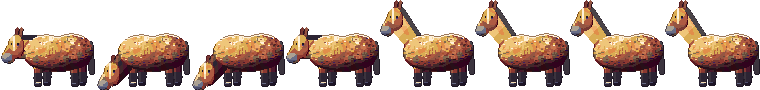
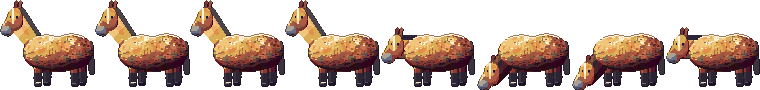
Start the horse's still with its head up
Its idle loop starts on the still frame, then dips to graze.

Claude-Session: https://claude.ai/code/session_01UudrmtYkicLNgZeuSjvjrK

diff --git a/scripts/art/kit/farm.py b/scripts/art/kit/farm.py
@@ -1464,7 +1464,7 @@ def animals():
     stock = (
         ('farm_cow', 'cow', 1, 5, 0, [-11.0, -3.0, 22, 3], 3, 'cattle', 'trough', 14, 'A cow in her paddock, her tail swishing'),
         ('farm_calf', 'calf', -1, 8, 3, [-6.5, -2.0, 13, 2], 2, 'cattle', 'trough', 14, 'A calf at grass near its mother, an ear flicking'),
-        ('farm_horse', 'horse', -1, 5, 2, [-9.0, -3.0, 18, 3], 3, 'horses', 'trough', 14, 'A bay horse in its paddock, dipping its head to graze'),
+        ('farm_horse', 'horse', -1, 5, 6, [-9.0, -3.0, 18, 3], 3, 'horses', 'trough', 14, 'A bay horse in its paddock, dipping its head to graze'),
         ('farm_pig', 'pig', 1, 2, 5, [-7.5, -3.0, 15, 3], 2, 'pigs', 'wallow', 6, 'A pig in the sty\'s run, its snout working'),
         ('farm_goat', 'goat', -1, 9, 1, [-6.0, -2.0, 12, 2], 2, 'goats', 'shelter', 8, 'A goat in its pen, chewing'),
         ('farm_goat_b', 'goat_b', 1, 3, 6, [-6.0, -2.0, 12, 2], 2, 'goats', 'shelter', 8, 'A brown goat grazing'),
